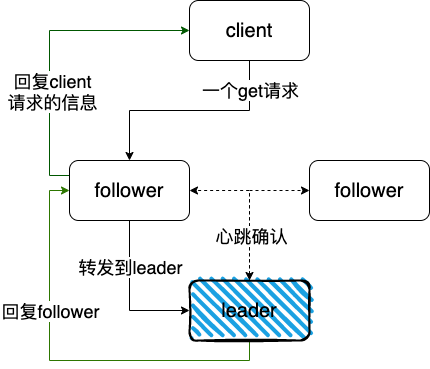
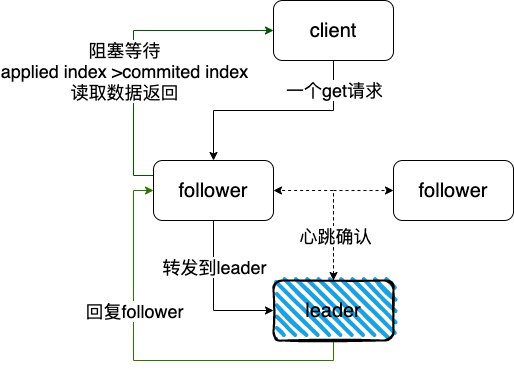
etcd

diff --git a/raft和线性一致性.md b/raft和线性一致性.md
@@ -294,7 +294,7 @@ func (n *node) ReadIndex(ctx context.Context, rctx []byte) error {
 
 2、如果消息来自follower，通过消息MsgReadIndexResp回复follower的响应结果，同时follower也是会将readStates中最后的一个放到readStateC，通知上游的处理结果；  
 
-上面的linearizableReadLoop监听readStateC，当收到请求，获取当前leader已经提交的日志索引，然后等待直到状态机已应用索引 (applied index) 大于等于 Leader 的已提交索引时 (committed Index)，然后去通知读请求，数据已赶上 Leader，你可以去状态机中访问数据了，处理数据返回给客户端  
+上面的linearizableReadLoop监听readStateC，当收到请求，获取当前leader已经提交的日志索引，然后等待直到状态机已应用索引 (applied index) 大于等于 Leader 的已提交索引时 (committed Index)，然后去通知读请求，数据已赶上 Leader，就可以去状态机中访问数据了，处理数据返回给客户端  
 
 我们知道ReadIndex算法中，leader节点需要，向follower节点发起心跳，确认自己的leader地位，具体的就是通过ReadOnly来实现,下面会一一介绍到  
 
